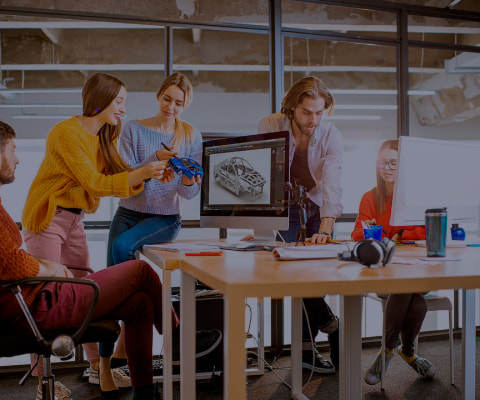
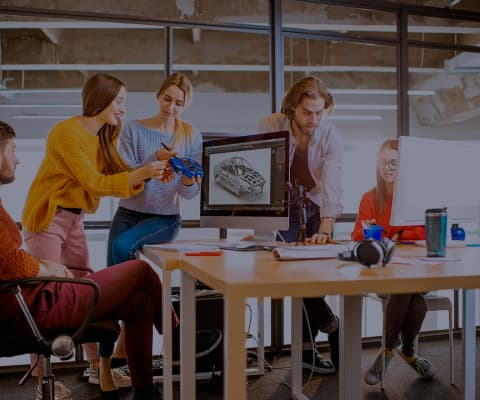
hero responsive background

diff --git a/css/main.min.css b/css/main.min.css
@@ -1,1 +1,1 @@
-*{margin:0;padding:0}body{font-family:"Roboto",sans-serif;color:#212121}ul{list-style:none}img,svg{display:block;max-width:100%;height:auto}.container{max-width:1200px;margin:0 auto;padding:0 15px}.section{padding:60px 0}.section__heading{margin-bottom:50px;font-size:36px;font-weight:700;line-height:1.2;letter-spacing:.03em;text-align:center;color:#212121}.section:nth-child(3){background-color:#f5f4fa}.grid{display:-webkit-box;display:-ms-flexbox;display:flex;-ms-flex-wrap:wrap;flex-wrap:wrap;gap:30px}.grid__item3{-ms-flex-preferred-size:calc((100% - 60px)/3);flex-basis:calc((100% - 60px)/3)}.grid__item4{-ms-flex-preferred-size:calc((100% - 90px)/4);flex-basis:calc((100% - 90px)/4)}.grid__item6{-ms-flex-preferred-size:calc((100% - 150px)/6);flex-basis:calc((100% - 150px)/6)}@media screen and (min-width: 768px)and (max-width: 1199px){.grid__item4{-ms-flex-preferred-size:calc((100% - 30px)/2);flex-basis:calc((100% - 30px)/2)}}@media screen and (min-width: 1200px){.section{padding:94px 0}.grid__item4{-ms-flex-preferred-size:calc((100% - 90px)/4);flex-basis:calc((100% - 90px)/4)}}.header{border-bottom:1px solid #ececec;padding:16px 0}.header>.container{display:-webkit-box;display:-ms-flexbox;display:flex;-webkit-box-align:center;-ms-flex-align:center;align-items:center}nav{-webkit-box-flex:1;-ms-flex-positive:1;flex-grow:1}.nav{display:-webkit-box;display:-ms-flexbox;display:flex}.nav__link,.contact__link{color:#212121;font-size:14px;font-weight:500;line-height:1.14;letter-spacing:.02em;text-decoration:none}.nav__link--active{position:relative;color:#2196f3}.nav__link--active::after{position:absolute;display:block;content:"";bottom:-32px;left:0;width:100%;height:4px;background-color:currentColor;border-radius:2px}.nav__link:hover,.contact__link:hover,.nav__link:focus,.contact__link:focus{color:#2196f3;-webkit-transition:color 250ms cubic-bezier(0.4, 0, 0.2, 1);transition:color 250ms cubic-bezier(0.4, 0, 0.2, 1)}.contact{display:-webkit-box;display:-ms-flexbox;display:flex;gap:30px}.contact__link{display:-webkit-box;display:-ms-flexbox;display:flex;-webkit-box-align:center;-ms-flex-align:center;align-items:center;color:#757575}.contact__icon{margin-right:10px;fill:currentColor}@media screen and (min-width: 768px)and (max-width: 1199px){.header{padding:26px 0}.nav{margin-left:83px;gap:60px}.contact{-webkit-box-orient:vertical;-webkit-box-direction:normal;-ms-flex-direction:column;flex-direction:column;gap:10px}.contact__link{font-size:12px;line-height:1.16}}@media screen and (min-width: 1200px){.header{padding-top:24px;padding-bottom:25px}.nav{margin-left:93px;gap:46px}}.logo{font-family:"Raleway",sans-serif;font-size:24px;font-weight:700;line-height:1.17;letter-spacing:.03em;color:#000;text-decoration:none}.logo--color{color:#fff}.logo__highlight{color:#2196f3}@media screen and (min-width: 1200px){.logo{font-size:26px;line-height:1.19}}.button{border:0;text-align:center;border-radius:4px;cursor:pointer}.button--main{display:block;margin:0 auto;-webkit-box-shadow:0px 4px 4px rgba(0,0,0,.15);box-shadow:0px 4px 4px rgba(0,0,0,.15);font-size:16px;font-weight:700;line-height:1.8;letter-spacing:.06em;padding:10px 42px;background-color:#2196f3;color:#fff}.modal__button{padding:10px 76px}.newsletter__button{display:-webkit-inline-box;display:-ms-inline-flexbox;display:inline-flex;gap:24px;fill:currentColor;line-height:1.875;padding:10px 28px 10px 42px;-webkit-box-shadow:0px 4px 4px rgba(0,0,0,.15);box-shadow:0px 4px 4px rgba(0,0,0,.15)}.submenu__button{color:inherit;font-size:16px;font-weight:500;line-height:1.6;letter-spacing:.03em;padding:6px 22px}.submenu__button:focus,.submenu__button:hover{-webkit-box-shadow:0px 3px 1px rgba(0,0,0,.1),0px 1px 2px rgba(0,0,0,.08),0px 2px 2px rgba(0,0,0,.12);box-shadow:0px 3px 1px rgba(0,0,0,.1),0px 1px 2px rgba(0,0,0,.08),0px 2px 2px rgba(0,0,0,.12);background-color:#2196f3;color:#fff;-webkit-transition:color 250ms cubic-bezier(0.4, 0, 0.2, 1),background-color 250ms cubic-bezier(0.4, 0, 0.2, 1),-webkit-box-shadow 250ms cubic-bezier(0.4, 0, 0.2, 1);transition:color 250ms cubic-bezier(0.4, 0, 0.2, 1),background-color 250ms cubic-bezier(0.4, 0, 0.2, 1),-webkit-box-shadow 250ms cubic-bezier(0.4, 0, 0.2, 1);transition:color 250ms cubic-bezier(0.4, 0, 0.2, 1),background-color 250ms cubic-bezier(0.4, 0, 0.2, 1),box-shadow 250ms cubic-bezier(0.4, 0, 0.2, 1);transition:color 250ms cubic-bezier(0.4, 0, 0.2, 1),background-color 250ms cubic-bezier(0.4, 0, 0.2, 1),box-shadow 250ms cubic-bezier(0.4, 0, 0.2, 1),-webkit-box-shadow 250ms cubic-bezier(0.4, 0, 0.2, 1)}.submenu{margin-bottom:50px}.submenu__list,.newsletter__form{display:-webkit-box;display:-ms-flexbox;display:flex;-webkit-box-pack:center;-ms-flex-pack:center;justify-content:center;-webkit-box-align:center;-ms-flex-align:center;align-items:center;gap:8px}.portfolio>li:hover{-webkit-box-shadow:0px 1px 1px rgba(0,0,0,.12),0px 4px 4px rgba(0,0,0,.06),1px 4px 6px rgba(0,0,0,.16);box-shadow:0px 1px 1px rgba(0,0,0,.12),0px 4px 4px rgba(0,0,0,.06),1px 4px 6px rgba(0,0,0,.16);-webkit-transition:-webkit-box-shadow 250ms cubic-bezier(0.4, 0, 0.2, 1);transition:-webkit-box-shadow 250ms cubic-bezier(0.4, 0, 0.2, 1);transition:box-shadow 250ms cubic-bezier(0.4, 0, 0.2, 1);transition:box-shadow 250ms cubic-bezier(0.4, 0, 0.2, 1), -webkit-box-shadow 250ms cubic-bezier(0.4, 0, 0.2, 1)}.portfolio>li:hover .portfolio__overlay{-webkit-transform:translateY(0);transform:translateY(0)}.portfolio__label{border-bottom:1px solid #eee;border-right:1px solid #eee;border-left:1px solid #eee;padding:20px 24px}.portfolio__name{font-size:18px;font-weight:700;line-height:2;letter-spacing:.06em;color:#212121}.portfolio__about{font-size:16px;font-weight:400;line-height:1.8;letter-spacing:.03em;color:#757575}.portfolio__box{position:relative;overflow:hidden}.portfolio__overlay{font-size:18px;font-weight:400;line-height:1.55;letter-spacing:.03em;color:#fff;position:absolute;top:0;left:0;width:100%;height:100%;padding:49px 45px 49px 24px;-webkit-transform:translateY(100%);transform:translateY(100%);-webkit-transition:-webkit-transform 250ms cubic-bezier(0.4, 0, 0.2, 1);transition:-webkit-transform 250ms cubic-bezier(0.4, 0, 0.2, 1);transition:transform 250ms cubic-bezier(0.4, 0, 0.2, 1);transition:transform 250ms cubic-bezier(0.4, 0, 0.2, 1), -webkit-transform 250ms cubic-bezier(0.4, 0, 0.2, 1);background-color:rgba(33,150,243,.9)}.footer{background-color:#2f303a;padding:60px 0}.footer>.container{display:-webkit-box;display:-ms-flexbox;display:flex}.address{margin-right:70px}.address>:nth-child(2){margin-top:20px}.address__content{font-style:normal;font-size:14px;font-weight:400;line-height:1.71;letter-spacing:.03em}.address__content:not(:first-child){margin-top:9px}.address__content:first-child{color:#fff}.address__link{text-decoration:none;color:rgba(255,255,255,.6)}.address__link:hover,.address__link:focus{background-color:#2196f3;-webkit-transition:background-color 250ms cubic-bezier(0.4, 0, 0.2, 1);transition:background-color 250ms cubic-bezier(0.4, 0, 0.2, 1)}.social{margin-top:12px;margin-right:78px}.social__link,.team__social-link{display:-webkit-inline-box;display:-ms-inline-flexbox;display:inline-flex;padding:12px}.social__icons{display:-webkit-box;display:-ms-flexbox;display:flex;gap:10px}.social__title{margin-bottom:20px;color:#fff;font-size:14px;font-weight:700;line-height:1.1;letter-spacing:.03em;text-transform:uppercase}.social__link,.team__social-link{fill:#fff;border-radius:50%;background-color:rgba(255,255,255,.1)}.social__link:hover,.team__social-link:hover,.social__link:focus,.team__social-link:focus{background-color:#2196f3;-webkit-transition:background-color 250ms cubic-bezier(0.4, 0, 0.2, 1);transition:background-color 250ms cubic-bezier(0.4, 0, 0.2, 1)}.newsletter{margin-top:12px}.newsletter__form{-ms-flex-wrap:wrap;flex-wrap:wrap;gap:12px}.newsletter__input{border:1px solid rgba(255,255,255,.3);border-radius:4px;background-color:rgba(0,0,0,0);outline:none;padding:15px 16px;min-width:358px;font-size:16px;font-weight:400;line-height:1.25;letter-spacing:.03em;color:rgba(255,255,255,.6)}.hero{background-image:-webkit-gradient(linear, left top, left bottom, from(rgba(47, 48, 58, 0.4)), to(rgba(47, 48, 58, 0.4))),url("../images/hero-1600.jpg");background-image:linear-gradient(rgba(47, 48, 58, 0.4), rgba(47, 48, 58, 0.4)),url("../images/hero-1600.jpg");background-repeat:no-repeat;background-position:center;background-size:auto auto;background-color:#2f303a}.hero>.container{padding-top:106px;padding-bottom:106px}.hero__title{font-size:44px;font-weight:900;line-height:1.3;letter-spacing:.06em;text-align:center;text-transform:uppercase;color:#fff;margin-bottom:30px}.backdrop{position:fixed;top:0;left:0;width:100%;height:100%;background-color:rgba(0,0,0,.2);opacity:1;-webkit-transition:opacity 350ms cubic-bezier(0.4, 0, 0.2, 1);transition:opacity 350ms cubic-bezier(0.4, 0, 0.2, 1)}.is-hidden{visibility:hidden;opacity:0;pointer-events:none}.is-hidden .modal{-webkit-transform:translate(-50%, -50%) scale(0.25);transform:translate(-50%, -50%) scale(0.25)}.modal{position:absolute;top:50%;left:50%;padding:40px;min-width:528px;min-height:581px;visibility:visible;background-color:#fff;-webkit-box-shadow:0px 1px 3px rgba(0,0,0,.12),0px 1px 1px rgba(0,0,0,.14),0px 2px 1px rgba(0,0,0,.2);box-shadow:0px 1px 3px rgba(0,0,0,.12),0px 1px 1px rgba(0,0,0,.14),0px 2px 1px rgba(0,0,0,.2);border-radius:4px;-webkit-transform:translate(-50%, -50%) scale(1);transform:translate(-50%, -50%) scale(1);-webkit-transition:-webkit-transform 350ms cubic-bezier(0.4, 0, 0.2, 1);transition:-webkit-transform 350ms cubic-bezier(0.4, 0, 0.2, 1);transition:transform 350ms cubic-bezier(0.4, 0, 0.2, 1);transition:transform 350ms cubic-bezier(0.4, 0, 0.2, 1), -webkit-transform 350ms cubic-bezier(0.4, 0, 0.2, 1)}.modal__close{position:absolute;top:8px;right:8px;padding:6px;border:1px solid rgba(0,0,0,.1);border-radius:50%;background-color:#fff;color:#000;cursor:pointer}.modal__close:hover{fill:#2196f3;-webkit-transition:fill 250ms cubic-bezier(0.4, 0, 0.2, 1);transition:fill 250ms cubic-bezier(0.4, 0, 0.2, 1)}.modal__title{font-size:20px;font-weight:700;line-height:1.15;letter-spacing:.03em;text-align:center;margin-bottom:12px}.form{display:-webkit-box;display:-ms-flexbox;display:flex;-webkit-box-orient:vertical;-webkit-box-direction:normal;-ms-flex-direction:column;flex-direction:column;gap:10px}.form__item{color:#757575;font-size:12px;font-weight:400;line-height:1.16;letter-spacing:.01em;display:-webkit-box;display:-ms-flexbox;display:flex;-webkit-box-orient:vertical;-webkit-box-direction:normal;-ms-flex-direction:column;flex-direction:column;gap:4px;position:relative}.form__input{outline:none;border:1px solid rgba(33,33,33,.2);border-radius:4px;padding-left:42px;height:40px}.form__input:focus-within,.form__input:focus-within+.modal__icon,.form__input:hover,.form__input:hover+.modal__icon{border-color:#2196f3;fill:#2196f3;-webkit-transition:border-color 250ms cubic-bezier(0.4, 0, 0.2, 1),fill 250ms cubic-bezier(0.4, 0, 0.2, 1);transition:border-color 250ms cubic-bezier(0.4, 0, 0.2, 1),fill 250ms cubic-bezier(0.4, 0, 0.2, 1)}.form__icon{position:absolute;top:28px;left:14px}.form__textarea{outline:none;resize:none;border:1px solid rgba(33,33,33,.2);border-radius:4px;padding:12px 16px;font-size:12px;font-weight:400;line-height:1.16;letter-spacing:.01em;color:rgba(117,117,117,.5)}.form__textarea::-webkit-input-placeholder{color:currentColor}.form__textarea::-moz-placeholder{color:currentColor}.form__textarea:-ms-input-placeholder{color:currentColor}.form__textarea::-ms-input-placeholder{color:currentColor}.form__textarea::placeholder{color:currentColor}.form__textarea:focus-within,.form__textarea:hover{border-color:#2196f3;fill:#2196f3;-webkit-transition:border-color 250ms cubic-bezier(0.4, 0, 0.2, 1),fill 250ms cubic-bezier(0.4, 0, 0.2, 1);transition:border-color 250ms cubic-bezier(0.4, 0, 0.2, 1),fill 250ms cubic-bezier(0.4, 0, 0.2, 1)}.form__checkbox{display:-webkit-inline-box;display:-ms-inline-flexbox;display:inline-flex;-webkit-box-align:center;-ms-flex-align:center;align-items:center;-webkit-box-pack:center;-ms-flex-pack:center;justify-content:center;gap:7px;position:relative;margin-top:10px;margin-bottom:30px}.form__checkbox-input{-moz-appearance:none;-webkit-appearance:none;appearance:none;width:16px;height:15px;position:absolute;left:15px;background-color:#fff;border:2px solid #212121;border-radius:2px}.form__checkbox-input:checked{opacity:0;-webkit-transition:opacity 250ms cubic-bezier(0.4, 0, 0.2, 1);transition:opacity 250ms cubic-bezier(0.4, 0, 0.2, 1)}.form__checkbox-text{font-size:14px;font-weight:400;line-height:1.5;letter-spacing:.03em;color:#757575}.form__checkbox-link{color:#2196f3}@media screen and (max-width: 767px){.nav,.contact{display:none}}.examples{font-size:14px;font-weight:400;line-height:1.14;letter-spacing:.03em}.examples__label{font-size:14px;font-weight:700;text-transform:uppercase;color:#212121}.examples__icon{background-color:#f5f4fa;padding:25px 100px;margin-bottom:30px;border-radius:4px}.examples__content{line-height:1.71;margin:10px 0 96px;color:#757575}@media screen and (max-width: 767px){.examples__label{text-align:center}}.work__image{position:relative}.work__label{position:absolute;bottom:0;background-color:rgba(47,48,58,.8);width:100%}.work__text{padding:27px 0;color:#fff;font-size:14px;font-weight:700;line-height:1.1;letter-spacing:.03em;text-align:center;text-transform:uppercase}@media screen and (max-width: 1199px){.work{display:none}}.team{background-color:#fff;-webkit-box-shadow:0px 1px 3px rgba(0,0,0,.12),0px 1px 1px rgba(0,0,0,.14),0px 2px 1px rgba(0,0,0,.2);box-shadow:0px 1px 3px rgba(0,0,0,.12),0px 1px 1px rgba(0,0,0,.14),0px 2px 1px rgba(0,0,0,.2);border-radius:0px 0px 4px 4px}.team__label{margin:30px 0 16px;font-size:16px;font-weight:400;line-height:1.8;letter-spacing:.03em;text-align:center}.team__name{font-weight:500;color:#212121}.team__description{color:#757575}.team__social{display:-webkit-box;display:-ms-flexbox;display:flex;-webkit-box-align:center;-ms-flex-align:center;align-items:center;-webkit-box-pack:center;-ms-flex-pack:center;justify-content:center;margin-bottom:18px;gap:10px}.team__social-link{color:#afb1b8;fill:currentColor}.team__social-link:hover,.team__social-link:focus{color:#fff;background-color:#2196f3;border-radius:50%;-webkit-transition:color 250ms cubic-bezier(0.4, 0, 0.2, 1),background-color 250ms cubic-bezier(0.4, 0, 0.2, 1);transition:color 250ms cubic-bezier(0.4, 0, 0.2, 1),background-color 250ms cubic-bezier(0.4, 0, 0.2, 1)}.client__link{display:-webkit-box;display:-ms-flexbox;display:flex;-webkit-box-align:center;-ms-flex-align:center;align-items:center;-webkit-box-pack:center;-ms-flex-pack:center;justify-content:center;border:1px solid #afb1b8;border-radius:4px;padding:15px 0;fill:#afb1b8}.client__link:hover,.client__link:focus{border-color:#2196f3;fill:#2196f3;-webkit-transition:border-color 250ms cubic-bezier(0.4, 0, 0.2, 1),fill 250ms cubic-bezier(0.4, 0, 0.2, 1);transition:border-color 250ms cubic-bezier(0.4, 0, 0.2, 1),fill 250ms cubic-bezier(0.4, 0, 0.2, 1)}/*# sourceMappingURL=main.min.css.map */
+*{margin:0;padding:0}body{font-family:"Roboto",sans-serif;color:#212121}ul{list-style:none}img,svg{display:block;max-width:100%;height:auto}.container{max-width:1200px;margin:0 auto;padding:0 15px}.section{padding:60px 0}.section__heading{margin-bottom:50px;font-size:36px;font-weight:700;line-height:1.2;letter-spacing:.03em;text-align:center;color:#212121}.section:nth-child(3){background-color:#f5f4fa}.grid{display:-webkit-box;display:-ms-flexbox;display:flex;-ms-flex-wrap:wrap;flex-wrap:wrap;gap:30px}.grid__item3{-ms-flex-preferred-size:calc((100% - 60px)/3);flex-basis:calc((100% - 60px)/3)}.grid__item4{-ms-flex-preferred-size:calc((100% - 90px)/4);flex-basis:calc((100% - 90px)/4)}.grid__item6{-ms-flex-preferred-size:calc((100% - 150px)/6);flex-basis:calc((100% - 150px)/6)}@media screen and (min-width: 768px)and (max-width: 1199px){.grid__item4{-ms-flex-preferred-size:calc((100% - 30px)/2);flex-basis:calc((100% - 30px)/2)}}@media screen and (min-width: 1200px){.section{padding:94px 0}.grid__item4{-ms-flex-preferred-size:calc((100% - 90px)/4);flex-basis:calc((100% - 90px)/4)}}.header{border-bottom:1px solid #ececec;padding:16px 0}.header>.container{display:-webkit-box;display:-ms-flexbox;display:flex;-webkit-box-align:center;-ms-flex-align:center;align-items:center}nav{-webkit-box-flex:1;-ms-flex-positive:1;flex-grow:1}.nav{display:-webkit-box;display:-ms-flexbox;display:flex}.nav__link,.contact__link{color:#212121;font-size:14px;font-weight:500;line-height:1.14;letter-spacing:.02em;text-decoration:none}.nav__link--active{position:relative;color:#2196f3}.nav__link--active::after{position:absolute;display:block;content:"";bottom:-32px;left:0;width:100%;height:4px;background-color:currentColor;border-radius:2px}.nav__link:hover,.contact__link:hover,.nav__link:focus,.contact__link:focus{color:#2196f3;-webkit-transition:color 250ms cubic-bezier(0.4, 0, 0.2, 1);transition:color 250ms cubic-bezier(0.4, 0, 0.2, 1)}.contact{display:-webkit-box;display:-ms-flexbox;display:flex;gap:30px}.contact__link{display:-webkit-box;display:-ms-flexbox;display:flex;-webkit-box-align:center;-ms-flex-align:center;align-items:center;color:#757575}.contact__icon{margin-right:10px;fill:currentColor}@media screen and (min-width: 768px)and (max-width: 1199px){.header{padding:26px 0}.nav{margin-left:83px;gap:60px}.contact{-webkit-box-orient:vertical;-webkit-box-direction:normal;-ms-flex-direction:column;flex-direction:column;gap:10px}.contact__link{font-size:12px;line-height:1.16}}@media screen and (min-width: 1200px){.header{padding-top:24px;padding-bottom:25px}.nav{margin-left:93px;gap:46px}}.logo{font-family:"Raleway",sans-serif;font-size:24px;font-weight:700;line-height:1.17;letter-spacing:.03em;color:#000;text-decoration:none}.logo--color{color:#fff}.logo__highlight{color:#2196f3}@media screen and (min-width: 1200px){.logo{font-size:26px;line-height:1.19}}.button{border:0;text-align:center;border-radius:4px;cursor:pointer}.button--main{display:block;margin:0 auto;-webkit-box-shadow:0px 4px 4px rgba(0,0,0,.15);box-shadow:0px 4px 4px rgba(0,0,0,.15);font-size:16px;font-weight:700;line-height:1.8;letter-spacing:.06em;padding:10px 42px;background-color:#2196f3;color:#fff}.modal__button{padding:10px 76px}.newsletter__button{display:-webkit-inline-box;display:-ms-inline-flexbox;display:inline-flex;gap:24px;fill:currentColor;line-height:1.875;padding:10px 28px 10px 42px;-webkit-box-shadow:0px 4px 4px rgba(0,0,0,.15);box-shadow:0px 4px 4px rgba(0,0,0,.15)}.submenu__button{color:inherit;font-size:16px;font-weight:500;line-height:1.6;letter-spacing:.03em;padding:6px 22px}.submenu__button:focus,.submenu__button:hover{-webkit-box-shadow:0px 3px 1px rgba(0,0,0,.1),0px 1px 2px rgba(0,0,0,.08),0px 2px 2px rgba(0,0,0,.12);box-shadow:0px 3px 1px rgba(0,0,0,.1),0px 1px 2px rgba(0,0,0,.08),0px 2px 2px rgba(0,0,0,.12);background-color:#2196f3;color:#fff;-webkit-transition:color 250ms cubic-bezier(0.4, 0, 0.2, 1),background-color 250ms cubic-bezier(0.4, 0, 0.2, 1),-webkit-box-shadow 250ms cubic-bezier(0.4, 0, 0.2, 1);transition:color 250ms cubic-bezier(0.4, 0, 0.2, 1),background-color 250ms cubic-bezier(0.4, 0, 0.2, 1),-webkit-box-shadow 250ms cubic-bezier(0.4, 0, 0.2, 1);transition:color 250ms cubic-bezier(0.4, 0, 0.2, 1),background-color 250ms cubic-bezier(0.4, 0, 0.2, 1),box-shadow 250ms cubic-bezier(0.4, 0, 0.2, 1);transition:color 250ms cubic-bezier(0.4, 0, 0.2, 1),background-color 250ms cubic-bezier(0.4, 0, 0.2, 1),box-shadow 250ms cubic-bezier(0.4, 0, 0.2, 1),-webkit-box-shadow 250ms cubic-bezier(0.4, 0, 0.2, 1)}.submenu{margin-bottom:50px}.submenu__list,.newsletter__form{display:-webkit-box;display:-ms-flexbox;display:flex;-webkit-box-pack:center;-ms-flex-pack:center;justify-content:center;-webkit-box-align:center;-ms-flex-align:center;align-items:center;gap:8px}.portfolio>li:hover{-webkit-box-shadow:0px 1px 1px rgba(0,0,0,.12),0px 4px 4px rgba(0,0,0,.06),1px 4px 6px rgba(0,0,0,.16);box-shadow:0px 1px 1px rgba(0,0,0,.12),0px 4px 4px rgba(0,0,0,.06),1px 4px 6px rgba(0,0,0,.16);-webkit-transition:-webkit-box-shadow 250ms cubic-bezier(0.4, 0, 0.2, 1);transition:-webkit-box-shadow 250ms cubic-bezier(0.4, 0, 0.2, 1);transition:box-shadow 250ms cubic-bezier(0.4, 0, 0.2, 1);transition:box-shadow 250ms cubic-bezier(0.4, 0, 0.2, 1), -webkit-box-shadow 250ms cubic-bezier(0.4, 0, 0.2, 1)}.portfolio>li:hover .portfolio__overlay{-webkit-transform:translateY(0);transform:translateY(0)}.portfolio__label{border-bottom:1px solid #eee;border-right:1px solid #eee;border-left:1px solid #eee;padding:20px 24px}.portfolio__name{font-size:18px;font-weight:700;line-height:2;letter-spacing:.06em;color:#212121}.portfolio__about{font-size:16px;font-weight:400;line-height:1.8;letter-spacing:.03em;color:#757575}.portfolio__box{position:relative;overflow:hidden}.portfolio__overlay{font-size:18px;font-weight:400;line-height:1.55;letter-spacing:.03em;color:#fff;position:absolute;top:0;left:0;width:100%;height:100%;padding:49px 45px 49px 24px;-webkit-transform:translateY(100%);transform:translateY(100%);-webkit-transition:-webkit-transform 250ms cubic-bezier(0.4, 0, 0.2, 1);transition:-webkit-transform 250ms cubic-bezier(0.4, 0, 0.2, 1);transition:transform 250ms cubic-bezier(0.4, 0, 0.2, 1);transition:transform 250ms cubic-bezier(0.4, 0, 0.2, 1), -webkit-transform 250ms cubic-bezier(0.4, 0, 0.2, 1);background-color:rgba(33,150,243,.9)}.footer{background-color:#2f303a;padding:60px 0}.footer>.container{display:-webkit-box;display:-ms-flexbox;display:flex}.address{margin-right:70px}.address>:nth-child(2){margin-top:20px}.address__content{font-style:normal;font-size:14px;font-weight:400;line-height:1.71;letter-spacing:.03em}.address__content:not(:first-child){margin-top:9px}.address__content:first-child{color:#fff}.address__link{text-decoration:none;color:rgba(255,255,255,.6)}.address__link:hover,.address__link:focus{background-color:#2196f3;-webkit-transition:background-color 250ms cubic-bezier(0.4, 0, 0.2, 1);transition:background-color 250ms cubic-bezier(0.4, 0, 0.2, 1)}.social{margin-top:12px;margin-right:78px}.social__link,.team__social-link{display:-webkit-inline-box;display:-ms-inline-flexbox;display:inline-flex;padding:12px}.social__icons{display:-webkit-box;display:-ms-flexbox;display:flex;gap:10px}.social__title{margin-bottom:20px;color:#fff;font-size:14px;font-weight:700;line-height:1.1;letter-spacing:.03em;text-transform:uppercase}.social__link,.team__social-link{fill:#fff;border-radius:50%;background-color:rgba(255,255,255,.1)}.social__link:hover,.team__social-link:hover,.social__link:focus,.team__social-link:focus{background-color:#2196f3;-webkit-transition:background-color 250ms cubic-bezier(0.4, 0, 0.2, 1);transition:background-color 250ms cubic-bezier(0.4, 0, 0.2, 1)}.newsletter{margin-top:12px}.newsletter__form{-ms-flex-wrap:wrap;flex-wrap:wrap;gap:12px}.newsletter__input{border:1px solid rgba(255,255,255,.3);border-radius:4px;background-color:rgba(0,0,0,0);outline:none;padding:15px 16px;min-width:358px;font-size:16px;font-weight:400;line-height:1.25;letter-spacing:.03em;color:rgba(255,255,255,.6)}.hero{background-image:-webkit-gradient(linear, left top, left bottom, from(rgba(47, 48, 58, 0.4)), to(rgba(47, 48, 58, 0.4))),url("../images/hero-480.jpg");background-image:linear-gradient(rgba(47, 48, 58, 0.4), rgba(47, 48, 58, 0.4)),url("../images/hero-480.jpg");background-repeat:no-repeat;background-position:center;background-size:cover;background-color:#2f303a}.hero>.container{padding-top:58px;padding-bottom:58px}.hero__title{font-size:26px;font-weight:900;line-height:1.61;letter-spacing:.06em;text-align:center;text-transform:uppercase;color:#fff;margin-bottom:30px}@media(min-device-pixel-ratio: 2),(-webkit-min-device-pixel-ratio: 2),(min-resolution: 192dpi),(min-resolution: 2dppx){.hero{background-image:-webkit-gradient(linear, left top, left bottom, from(rgba(47, 48, 58, 0.4)), to(rgba(47, 48, 58, 0.4))),url("../images/hero-480@2x.jpg");background-image:linear-gradient(rgba(47, 48, 58, 0.4), rgba(47, 48, 58, 0.4)),url("../images/hero-480@2x.jpg")}}@media(min-device-pixel-ratio: 3),(-webkit-min-device-pixel-ratio: 3),(min-resolution: 288dpi),(min-resolution: 3dppx){.hero{background-image:-webkit-gradient(linear, left top, left bottom, from(rgba(47, 48, 58, 0.4)), to(rgba(47, 48, 58, 0.4))),url("../images/hero-480@3x.jpg");background-image:linear-gradient(rgba(47, 48, 58, 0.4), rgba(47, 48, 58, 0.4)),url("../images/hero-480@3x.jpg")}}@media screen and (min-width: 768px)and (max-width: 1199px){.hero{background-image:-webkit-gradient(linear, left top, left bottom, from(rgba(47, 48, 58, 0.4)), to(rgba(47, 48, 58, 0.4))),url("../images/hero-768.jpg");background-image:linear-gradient(rgba(47, 48, 58, 0.4), rgba(47, 48, 58, 0.4)),url("../images/hero-768.jpg")}}@media screen and (min-width: 768px)and (max-width: 1199px)and (min-device-pixel-ratio: 2),screen and (min-width: 768px)and (max-width: 1199px)and (-webkit-min-device-pixel-ratio: 2),screen and (min-width: 768px)and (max-width: 1199px)and (min-resolution: 192dpi),screen and (min-width: 768px)and (max-width: 1199px)and (min-resolution: 2dppx){.hero{background-image:-webkit-gradient(linear, left top, left bottom, from(rgba(47, 48, 58, 0.4)), to(rgba(47, 48, 58, 0.4))),url("../images/hero-768@2x.jpg");background-image:linear-gradient(rgba(47, 48, 58, 0.4), rgba(47, 48, 58, 0.4)),url("../images/hero-768@2x.jpg")}}@media screen and (min-width: 768px)and (max-width: 1199px)and (min-device-pixel-ratio: 3),screen and (min-width: 768px)and (max-width: 1199px)and (-webkit-min-device-pixel-ratio: 3),screen and (min-width: 768px)and (max-width: 1199px)and (min-resolution: 288dpi),screen and (min-width: 768px)and (max-width: 1199px)and (min-resolution: 3dppx){.hero{background-image:-webkit-gradient(linear, left top, left bottom, from(rgba(47, 48, 58, 0.4)), to(rgba(47, 48, 58, 0.4))),url("../images/hero-768@3x.jpg");background-image:linear-gradient(rgba(47, 48, 58, 0.4), rgba(47, 48, 58, 0.4)),url("../images/hero-768@3x.jpg")}}@media screen and (min-width: 1200px){.hero{background-image:-webkit-gradient(linear, left top, left bottom, from(rgba(47, 48, 58, 0.4)), to(rgba(47, 48, 58, 0.4))),url("../images/hero-1600.jpg");background-image:linear-gradient(rgba(47, 48, 58, 0.4), rgba(47, 48, 58, 0.4)),url("../images/hero-1600.jpg")}.hero>.container{padding-top:106px;padding-bottom:106px}.hero__title{font-size:44px;line-height:1.36}}@media screen and (min-width: 1200px)and (min-device-pixel-ratio: 2),screen and (min-width: 1200px)and (-webkit-min-device-pixel-ratio: 2),screen and (min-width: 1200px)and (min-resolution: 192dpi),screen and (min-width: 1200px)and (min-resolution: 2dppx){.hero{background-image:-webkit-gradient(linear, left top, left bottom, from(rgba(47, 48, 58, 0.4)), to(rgba(47, 48, 58, 0.4))),url("../images/hero-1600@2x.jpg");background-image:linear-gradient(rgba(47, 48, 58, 0.4), rgba(47, 48, 58, 0.4)),url("../images/hero-1600@2x.jpg")}}@media screen and (min-width: 1200px)and (min-device-pixel-ratio: 3),screen and (min-width: 1200px)and (-webkit-min-device-pixel-ratio: 3),screen and (min-width: 1200px)and (min-resolution: 288dpi),screen and (min-width: 1200px)and (min-resolution: 3dppx){.hero{background-image:-webkit-gradient(linear, left top, left bottom, from(rgba(47, 48, 58, 0.4)), to(rgba(47, 48, 58, 0.4))),url("../images/hero-1600@3x.jpg");background-image:linear-gradient(rgba(47, 48, 58, 0.4), rgba(47, 48, 58, 0.4)),url("../images/hero-1600@3x.jpg")}}.backdrop{position:fixed;top:0;left:0;width:100%;height:100%;background-color:rgba(0,0,0,.2);opacity:1;-webkit-transition:opacity 350ms cubic-bezier(0.4, 0, 0.2, 1);transition:opacity 350ms cubic-bezier(0.4, 0, 0.2, 1)}.is-hidden{visibility:hidden;opacity:0;pointer-events:none}.is-hidden .modal{-webkit-transform:translate(-50%, -50%) scale(0.25);transform:translate(-50%, -50%) scale(0.25)}.modal{position:absolute;top:50%;left:50%;padding:40px;min-width:528px;min-height:581px;visibility:visible;background-color:#fff;-webkit-box-shadow:0px 1px 3px rgba(0,0,0,.12),0px 1px 1px rgba(0,0,0,.14),0px 2px 1px rgba(0,0,0,.2);box-shadow:0px 1px 3px rgba(0,0,0,.12),0px 1px 1px rgba(0,0,0,.14),0px 2px 1px rgba(0,0,0,.2);border-radius:4px;-webkit-transform:translate(-50%, -50%) scale(1);transform:translate(-50%, -50%) scale(1);-webkit-transition:-webkit-transform 350ms cubic-bezier(0.4, 0, 0.2, 1);transition:-webkit-transform 350ms cubic-bezier(0.4, 0, 0.2, 1);transition:transform 350ms cubic-bezier(0.4, 0, 0.2, 1);transition:transform 350ms cubic-bezier(0.4, 0, 0.2, 1), -webkit-transform 350ms cubic-bezier(0.4, 0, 0.2, 1)}.modal__close{position:absolute;top:8px;right:8px;padding:6px;border:1px solid rgba(0,0,0,.1);border-radius:50%;background-color:#fff;color:#000;cursor:pointer}.modal__close:hover{fill:#2196f3;-webkit-transition:fill 250ms cubic-bezier(0.4, 0, 0.2, 1);transition:fill 250ms cubic-bezier(0.4, 0, 0.2, 1)}.modal__title{font-size:20px;font-weight:700;line-height:1.15;letter-spacing:.03em;text-align:center;margin-bottom:12px}.form{display:-webkit-box;display:-ms-flexbox;display:flex;-webkit-box-orient:vertical;-webkit-box-direction:normal;-ms-flex-direction:column;flex-direction:column;gap:10px}.form__item{color:#757575;font-size:12px;font-weight:400;line-height:1.16;letter-spacing:.01em;display:-webkit-box;display:-ms-flexbox;display:flex;-webkit-box-orient:vertical;-webkit-box-direction:normal;-ms-flex-direction:column;flex-direction:column;gap:4px;position:relative}.form__input{outline:none;border:1px solid rgba(33,33,33,.2);border-radius:4px;padding-left:42px;height:40px}.form__input:focus-within,.form__input:focus-within+.modal__icon,.form__input:hover,.form__input:hover+.modal__icon{border-color:#2196f3;fill:#2196f3;-webkit-transition:border-color 250ms cubic-bezier(0.4, 0, 0.2, 1),fill 250ms cubic-bezier(0.4, 0, 0.2, 1);transition:border-color 250ms cubic-bezier(0.4, 0, 0.2, 1),fill 250ms cubic-bezier(0.4, 0, 0.2, 1)}.form__icon{position:absolute;top:28px;left:14px}.form__textarea{outline:none;resize:none;border:1px solid rgba(33,33,33,.2);border-radius:4px;padding:12px 16px;font-size:12px;font-weight:400;line-height:1.16;letter-spacing:.01em;color:rgba(117,117,117,.5)}.form__textarea::-webkit-input-placeholder{color:currentColor}.form__textarea::-moz-placeholder{color:currentColor}.form__textarea:-ms-input-placeholder{color:currentColor}.form__textarea::-ms-input-placeholder{color:currentColor}.form__textarea::placeholder{color:currentColor}.form__textarea:focus-within,.form__textarea:hover{border-color:#2196f3;fill:#2196f3;-webkit-transition:border-color 250ms cubic-bezier(0.4, 0, 0.2, 1),fill 250ms cubic-bezier(0.4, 0, 0.2, 1);transition:border-color 250ms cubic-bezier(0.4, 0, 0.2, 1),fill 250ms cubic-bezier(0.4, 0, 0.2, 1)}.form__checkbox{display:-webkit-inline-box;display:-ms-inline-flexbox;display:inline-flex;-webkit-box-align:center;-ms-flex-align:center;align-items:center;-webkit-box-pack:center;-ms-flex-pack:center;justify-content:center;gap:7px;position:relative;margin-top:10px;margin-bottom:30px}.form__checkbox-input{-moz-appearance:none;-webkit-appearance:none;appearance:none;width:16px;height:15px;position:absolute;left:15px;background-color:#fff;border:2px solid #212121;border-radius:2px}.form__checkbox-input:checked{opacity:0;-webkit-transition:opacity 250ms cubic-bezier(0.4, 0, 0.2, 1);transition:opacity 250ms cubic-bezier(0.4, 0, 0.2, 1)}.form__checkbox-text{font-size:14px;font-weight:400;line-height:1.5;letter-spacing:.03em;color:#757575}.form__checkbox-link{color:#2196f3}@media screen and (max-width: 767px){.nav,.contact{display:none}}.examples{font-size:14px;font-weight:400;line-height:1.14;letter-spacing:.03em}.examples__label{font-size:14px;font-weight:700;text-transform:uppercase;color:#212121}.examples__icon{background-color:#f5f4fa;padding:25px 100px;margin-bottom:30px;border-radius:4px}.examples__content{line-height:1.71;margin:10px 0 96px;color:#757575}@media screen and (max-width: 767px){.examples__label{text-align:center}}.work__image{position:relative}.work__label{position:absolute;bottom:0;background-color:rgba(47,48,58,.8);width:100%}.work__text{padding:27px 0;color:#fff;font-size:14px;font-weight:700;line-height:1.1;letter-spacing:.03em;text-align:center;text-transform:uppercase}@media screen and (max-width: 1199px){.work{display:none}}.team{background-color:#fff;-webkit-box-shadow:0px 1px 3px rgba(0,0,0,.12),0px 1px 1px rgba(0,0,0,.14),0px 2px 1px rgba(0,0,0,.2);box-shadow:0px 1px 3px rgba(0,0,0,.12),0px 1px 1px rgba(0,0,0,.14),0px 2px 1px rgba(0,0,0,.2);border-radius:0px 0px 4px 4px}.team__label{margin:30px 0 16px;font-size:16px;font-weight:400;line-height:1.8;letter-spacing:.03em;text-align:center}.team__name{font-weight:500;color:#212121}.team__description{color:#757575}.team__social{display:-webkit-box;display:-ms-flexbox;display:flex;-webkit-box-align:center;-ms-flex-align:center;align-items:center;-webkit-box-pack:center;-ms-flex-pack:center;justify-content:center;margin-bottom:18px;gap:10px}.team__social-link{color:#afb1b8;fill:currentColor}.team__social-link:hover,.team__social-link:focus{color:#fff;background-color:#2196f3;border-radius:50%;-webkit-transition:color 250ms cubic-bezier(0.4, 0, 0.2, 1),background-color 250ms cubic-bezier(0.4, 0, 0.2, 1);transition:color 250ms cubic-bezier(0.4, 0, 0.2, 1),background-color 250ms cubic-bezier(0.4, 0, 0.2, 1)}.client__link{display:-webkit-box;display:-ms-flexbox;display:flex;-webkit-box-align:center;-ms-flex-align:center;align-items:center;-webkit-box-pack:center;-ms-flex-pack:center;justify-content:center;border:1px solid #afb1b8;border-radius:4px;padding:15px 0;fill:#afb1b8}.client__link:hover,.client__link:focus{border-color:#2196f3;fill:#2196f3;-webkit-transition:border-color 250ms cubic-bezier(0.4, 0, 0.2, 1),fill 250ms cubic-bezier(0.4, 0, 0.2, 1);transition:border-color 250ms cubic-bezier(0.4, 0, 0.2, 1),fill 250ms cubic-bezier(0.4, 0, 0.2, 1)}/*# sourceMappingURL=main.min.css.map */

diff --git a/sass/components/_hero.scss b/sass/components/_hero.scss
@@ -1,20 +1,81 @@
 .hero {
-  background-image: linear-gradient(rgba(47, 48, 58, 0.4), rgba(47, 48, 58, 0.4)), url('../images/hero-1600.jpg');
+  background-image: linear-gradient(rgba(47, 48, 58, 0.4), rgba(47, 48, 58, 0.4)), url('../images/hero-480.jpg');
   background-repeat: no-repeat;
   background-position: center;
-  background-size: auto auto;
+  background-size: cover;
   background-color: map-get($colors, 'background');
 
   & > .container {
-    padding-top: 106px;
-    padding-bottom: 106px;
+    padding-top: 58px;
+    padding-bottom: 58px;
   }
 
   &__title {
-    @include font(44px, 900, 1.3, 0.06em);
+    @include font(26px, 900, 1.61, 0.06em);
     text-align: center;
     text-transform: uppercase;
     color: map-get($colors, 'light');
     margin-bottom: 30px;
+  }
+}
+
+@media (min-device-pixel-ratio: 2), (min-resolution: 192dpi), (min-resolution: 2dppx) {
+  .hero {
+    background-image: linear-gradient(rgba(47, 48, 58, 0.4), rgba(47, 48, 58, 0.4)), url('../images/hero-480@2x.jpg');
+  }
+}
+
+@media (min-device-pixel-ratio: 3), (min-resolution: 288dpi), (min-resolution: 3dppx) {
+  .hero {
+    background-image: linear-gradient(rgba(47, 48, 58, 0.4), rgba(47, 48, 58, 0.4)), url('../images/hero-480@3x.jpg');
+  }
+}
+
+//TABLET
+
+@media screen and (min-width: $breakpointTablet) and (max-width: calc($breakpointDesktop - 1px)) {
+  .hero {
+    background-image: linear-gradient(rgba(47, 48, 58, 0.4), rgba(47, 48, 58, 0.4)), url('../images/hero-768.jpg');
+  }
+
+  @media (min-device-pixel-ratio: 2), (min-resolution: 192dpi), (min-resolution: 2dppx) {
+    .hero {
+      background-image: linear-gradient(rgba(47, 48, 58, 0.4), rgba(47, 48, 58, 0.4)), url('../images/hero-768@2x.jpg');
+    }
+  }
+
+  @media (min-device-pixel-ratio: 3), (min-resolution: 288dpi), (min-resolution: 3dppx) {
+    .hero {
+      background-image: linear-gradient(rgba(47, 48, 58, 0.4), rgba(47, 48, 58, 0.4)), url('../images/hero-768@3x.jpg');
+    }
+  }
+}
+
+//DESKTOP
+
+@media screen and (min-width: $breakpointDesktop) {
+  .hero {
+    background-image: linear-gradient(rgba(47, 48, 58, 0.4), rgba(47, 48, 58, 0.4)), url('../images/hero-1600.jpg');
+
+    & > .container {
+      padding-top: 106px;
+      padding-bottom: 106px;
+    }
+
+    &__title {
+      @include font(44px, false, 1.36);
+    }
+  }
+
+  @media (min-device-pixel-ratio: 2), (min-resolution: 192dpi), (min-resolution: 2dppx) {
+    .hero {
+      background-image: linear-gradient(rgba(47, 48, 58, 0.4), rgba(47, 48, 58, 0.4)), url('../images/hero-1600@2x.jpg');
+    }
+  }
+
+  @media (min-device-pixel-ratio: 3), (min-resolution: 288dpi), (min-resolution: 3dppx) {
+    .hero {
+      background-image: linear-gradient(rgba(47, 48, 58, 0.4), rgba(47, 48, 58, 0.4)), url('../images/hero-1600@3x.jpg');
+    }
   }
 }
